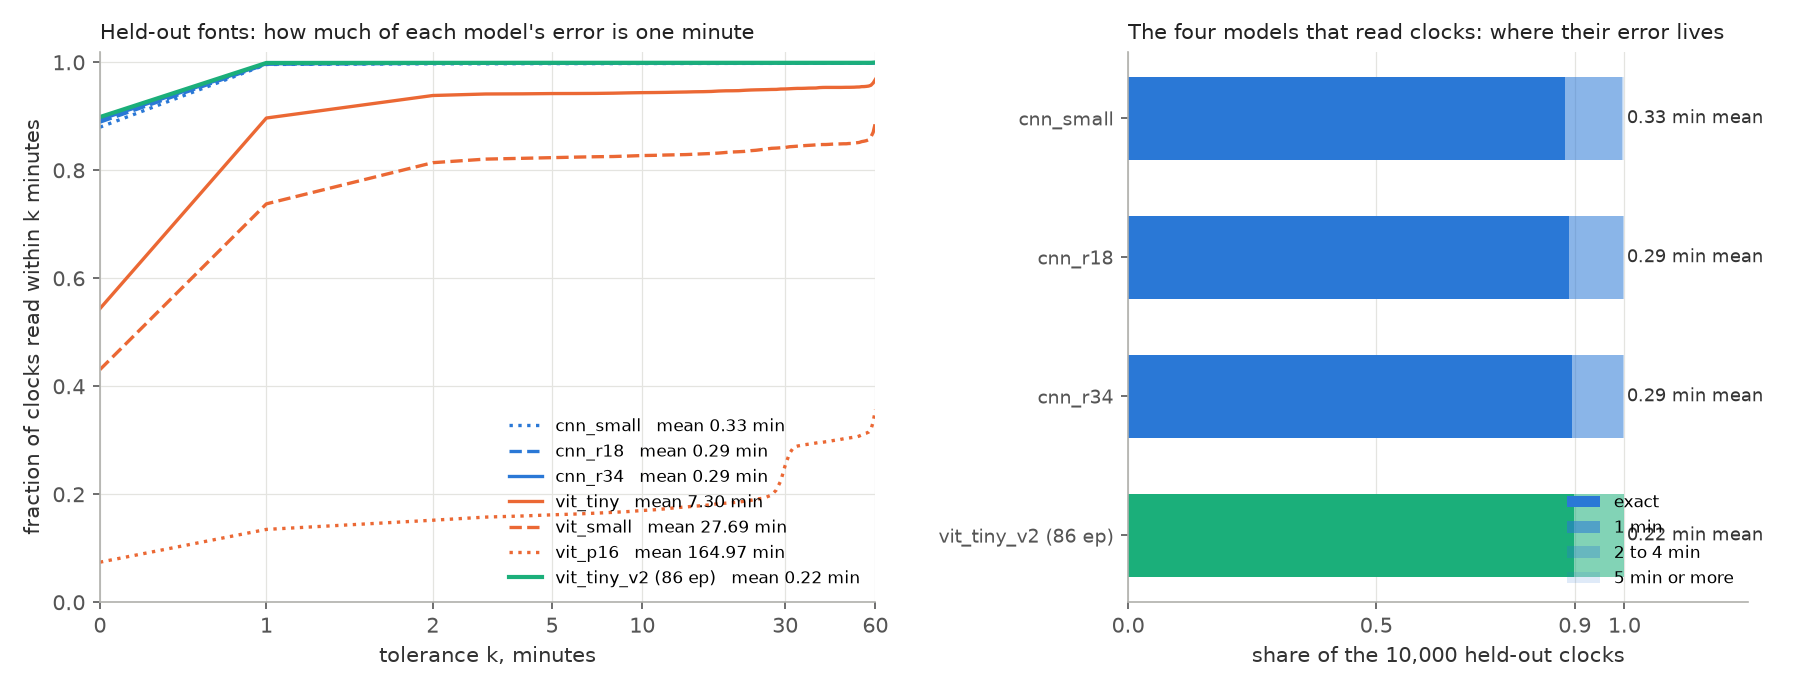
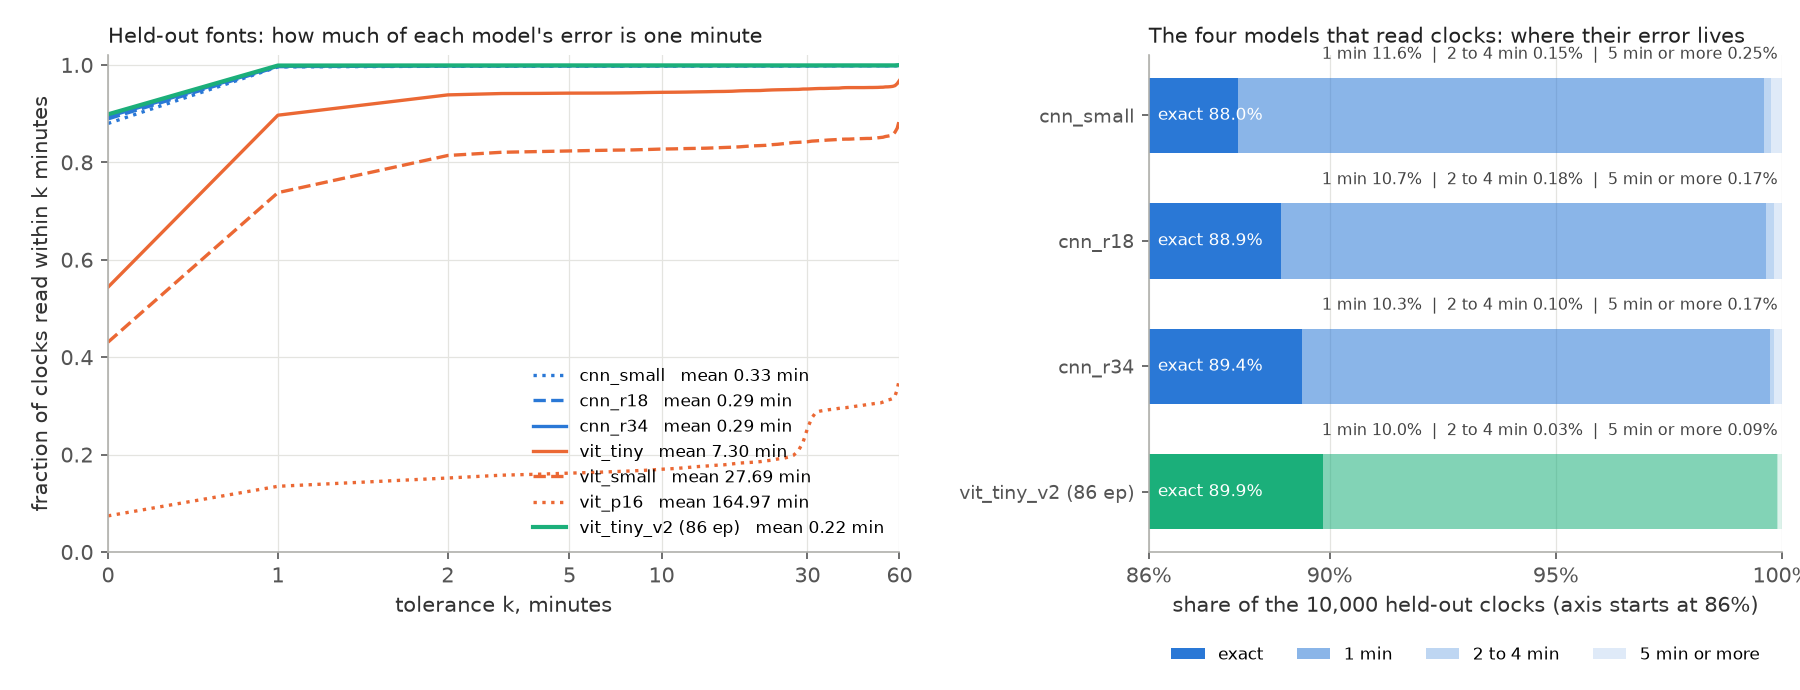
Tolerance figure; Part 2 points to the time-error metric

diff --git a/_posts/2026-09-15-clocks-part-2-models.md b/_posts/2026-09-15-clocks-part-2-models.md
@@ -396,10 +396,12 @@ sits on the GPU as uint8, 5.9 GB, and each batch is gathered by index. There's n
 CPU-side decoding, so the small models are bounded by the forward and
 backward pass: cnn_small trains 120k images per epoch in 37 seconds.
 
-Two metrics matter. "Exact" means hour and minute are both right. "±1 min"
-means the hour is right and the minute is within one of the truth. Every
-number is from one seed, and the differences between models within a family
-are inside single-seed noise. Part 3 quantifies that.
+Two metrics appear in this part. "Exact" means hour and minute are both
+right. "±1 min" means the hour is right and the minute is within one of
+the truth. Exact is what the loss trains for, but it says nothing about
+how far off a miss is, so Part 3 switches to the time error in minutes
+and shows the ordering it gives. Every number is from one seed, and the
+differences between models within a family are inside single-seed noise.
 
 ## Results at 30 epochs
 
